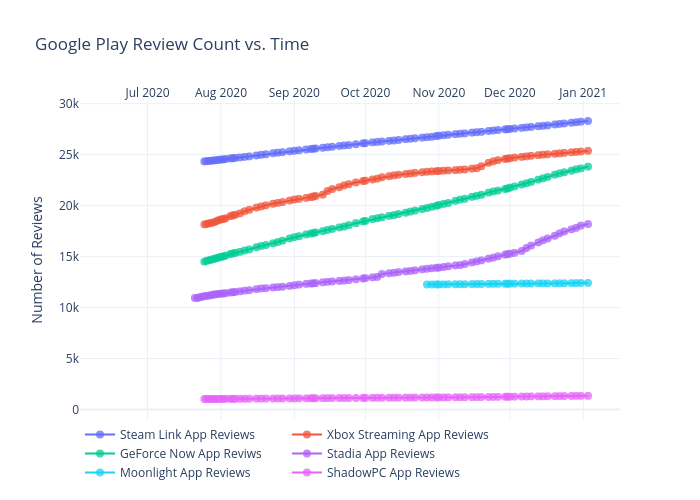
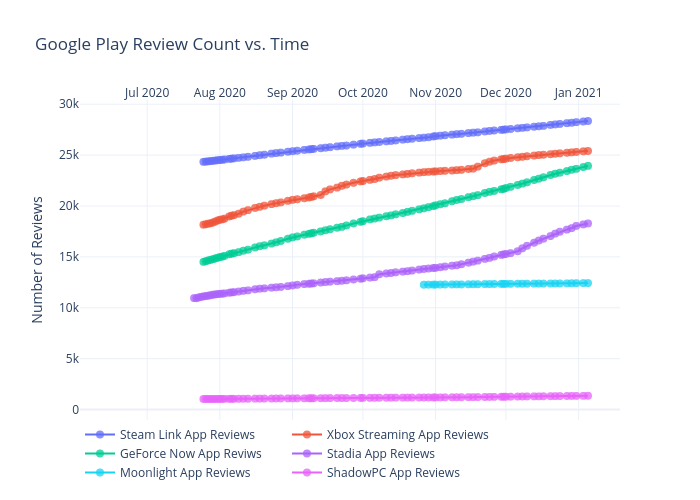
Add files via upload

diff --git a/googleplay/figure.js b/googleplay/figure.js
@@ -199,7 +199,8 @@ var figure = {
                 "28137",
                 "28177",
                 "28235",
-                "28301"
+                "28301",
+                "28349"
             ],
             "marker": {
                 "size": 8,
@@ -408,7 +409,8 @@ var figure = {
                 "25231",
                 "25267",
                 "25310",
-                "25370"
+                "25370",
+                "25404"
             ],
             "marker": {
                 "size": 8,
@@ -617,7 +619,8 @@ var figure = {
                 "23429",
                 "23559",
                 "23650",
-                "23824"
+                "23824",
+                "23939"
             ],
             "marker": {
                 "size": 8,
@@ -826,7 +829,8 @@ var figure = {
                 "17673",
                 "17823",
                 "18042",
-                "18189"
+                "18189",
+                "18284"
             ],
             "marker": {
                 "size": 8,
@@ -1035,7 +1039,8 @@ var figure = {
                 "12396",
                 "12407",
                 "12417",
-                "12423"
+                "12423",
+                "12427"
             ],
             "marker": {
                 "size": 8,
@@ -1244,7 +1249,8 @@ var figure = {
                 "1332",
                 "1336",
                 "1340",
-                "1344"
+                "1344",
+                "1352"
             ],
             "marker": {
                 "size": 8,
@@ -1263,8 +1269,8 @@ var figure = {
             "side": "top",
             "type": "date",
             "range": [
-                "2020-06-03 13:44:04.6076",
-                "2021-01-15 10:15:55.3924"
+                "2020-06-03 10:46:00.4743",
+                "2021-01-17 13:13:59.5257"
             ],
             "title": {
                 "text": ""
@@ -1274,8 +1280,8 @@ var figure = {
         "yaxis": {
             "type": "linear",
             "range": [
-                -914.864526346099,
-                30251.8645263461
+                -1269.6428571428569,
+                30654.642857142855
             ],
             "title": {
                 "text": "Number of Reviews"
